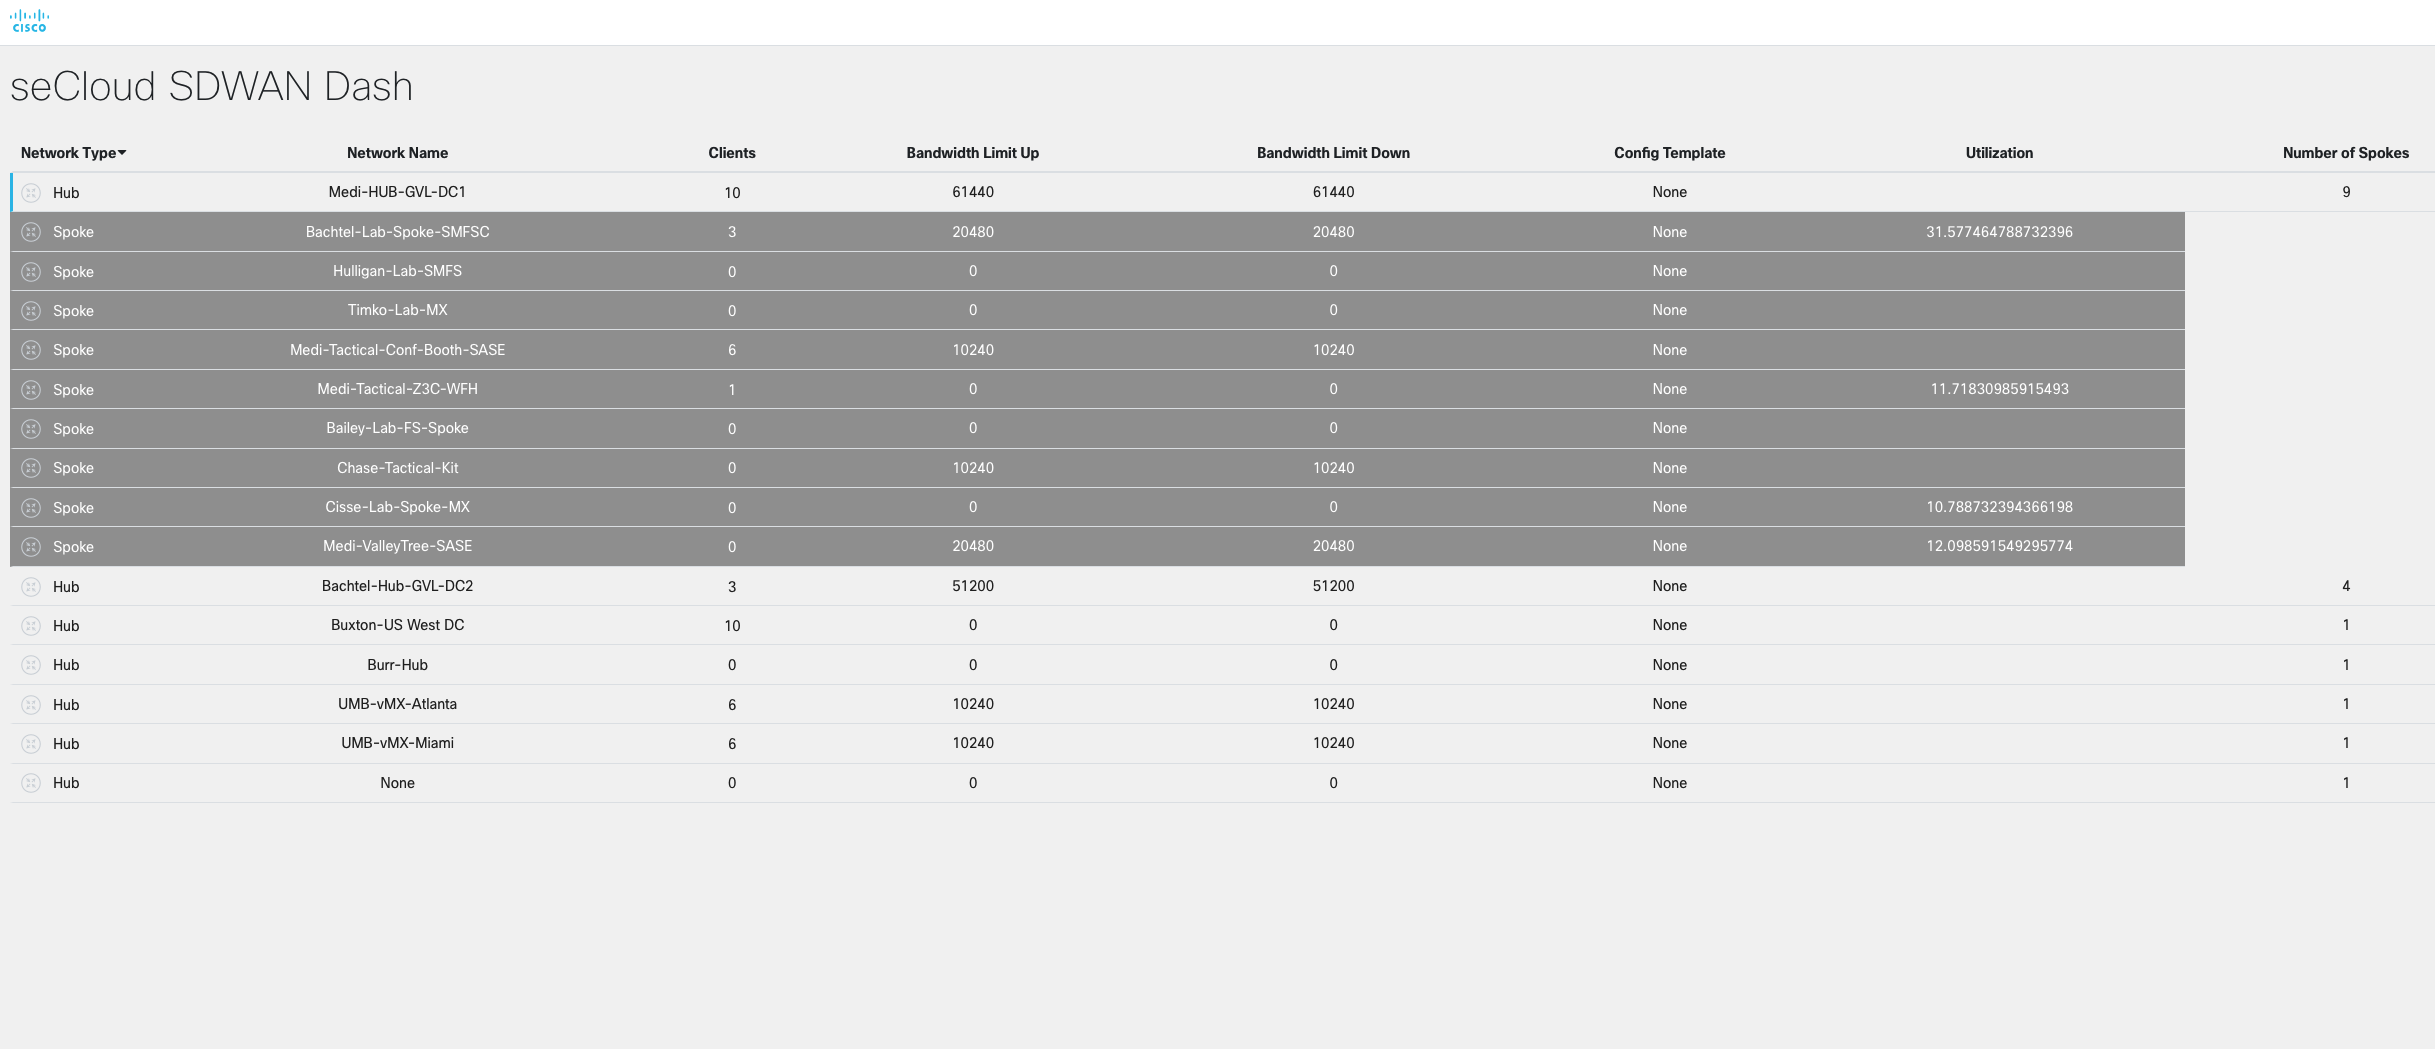
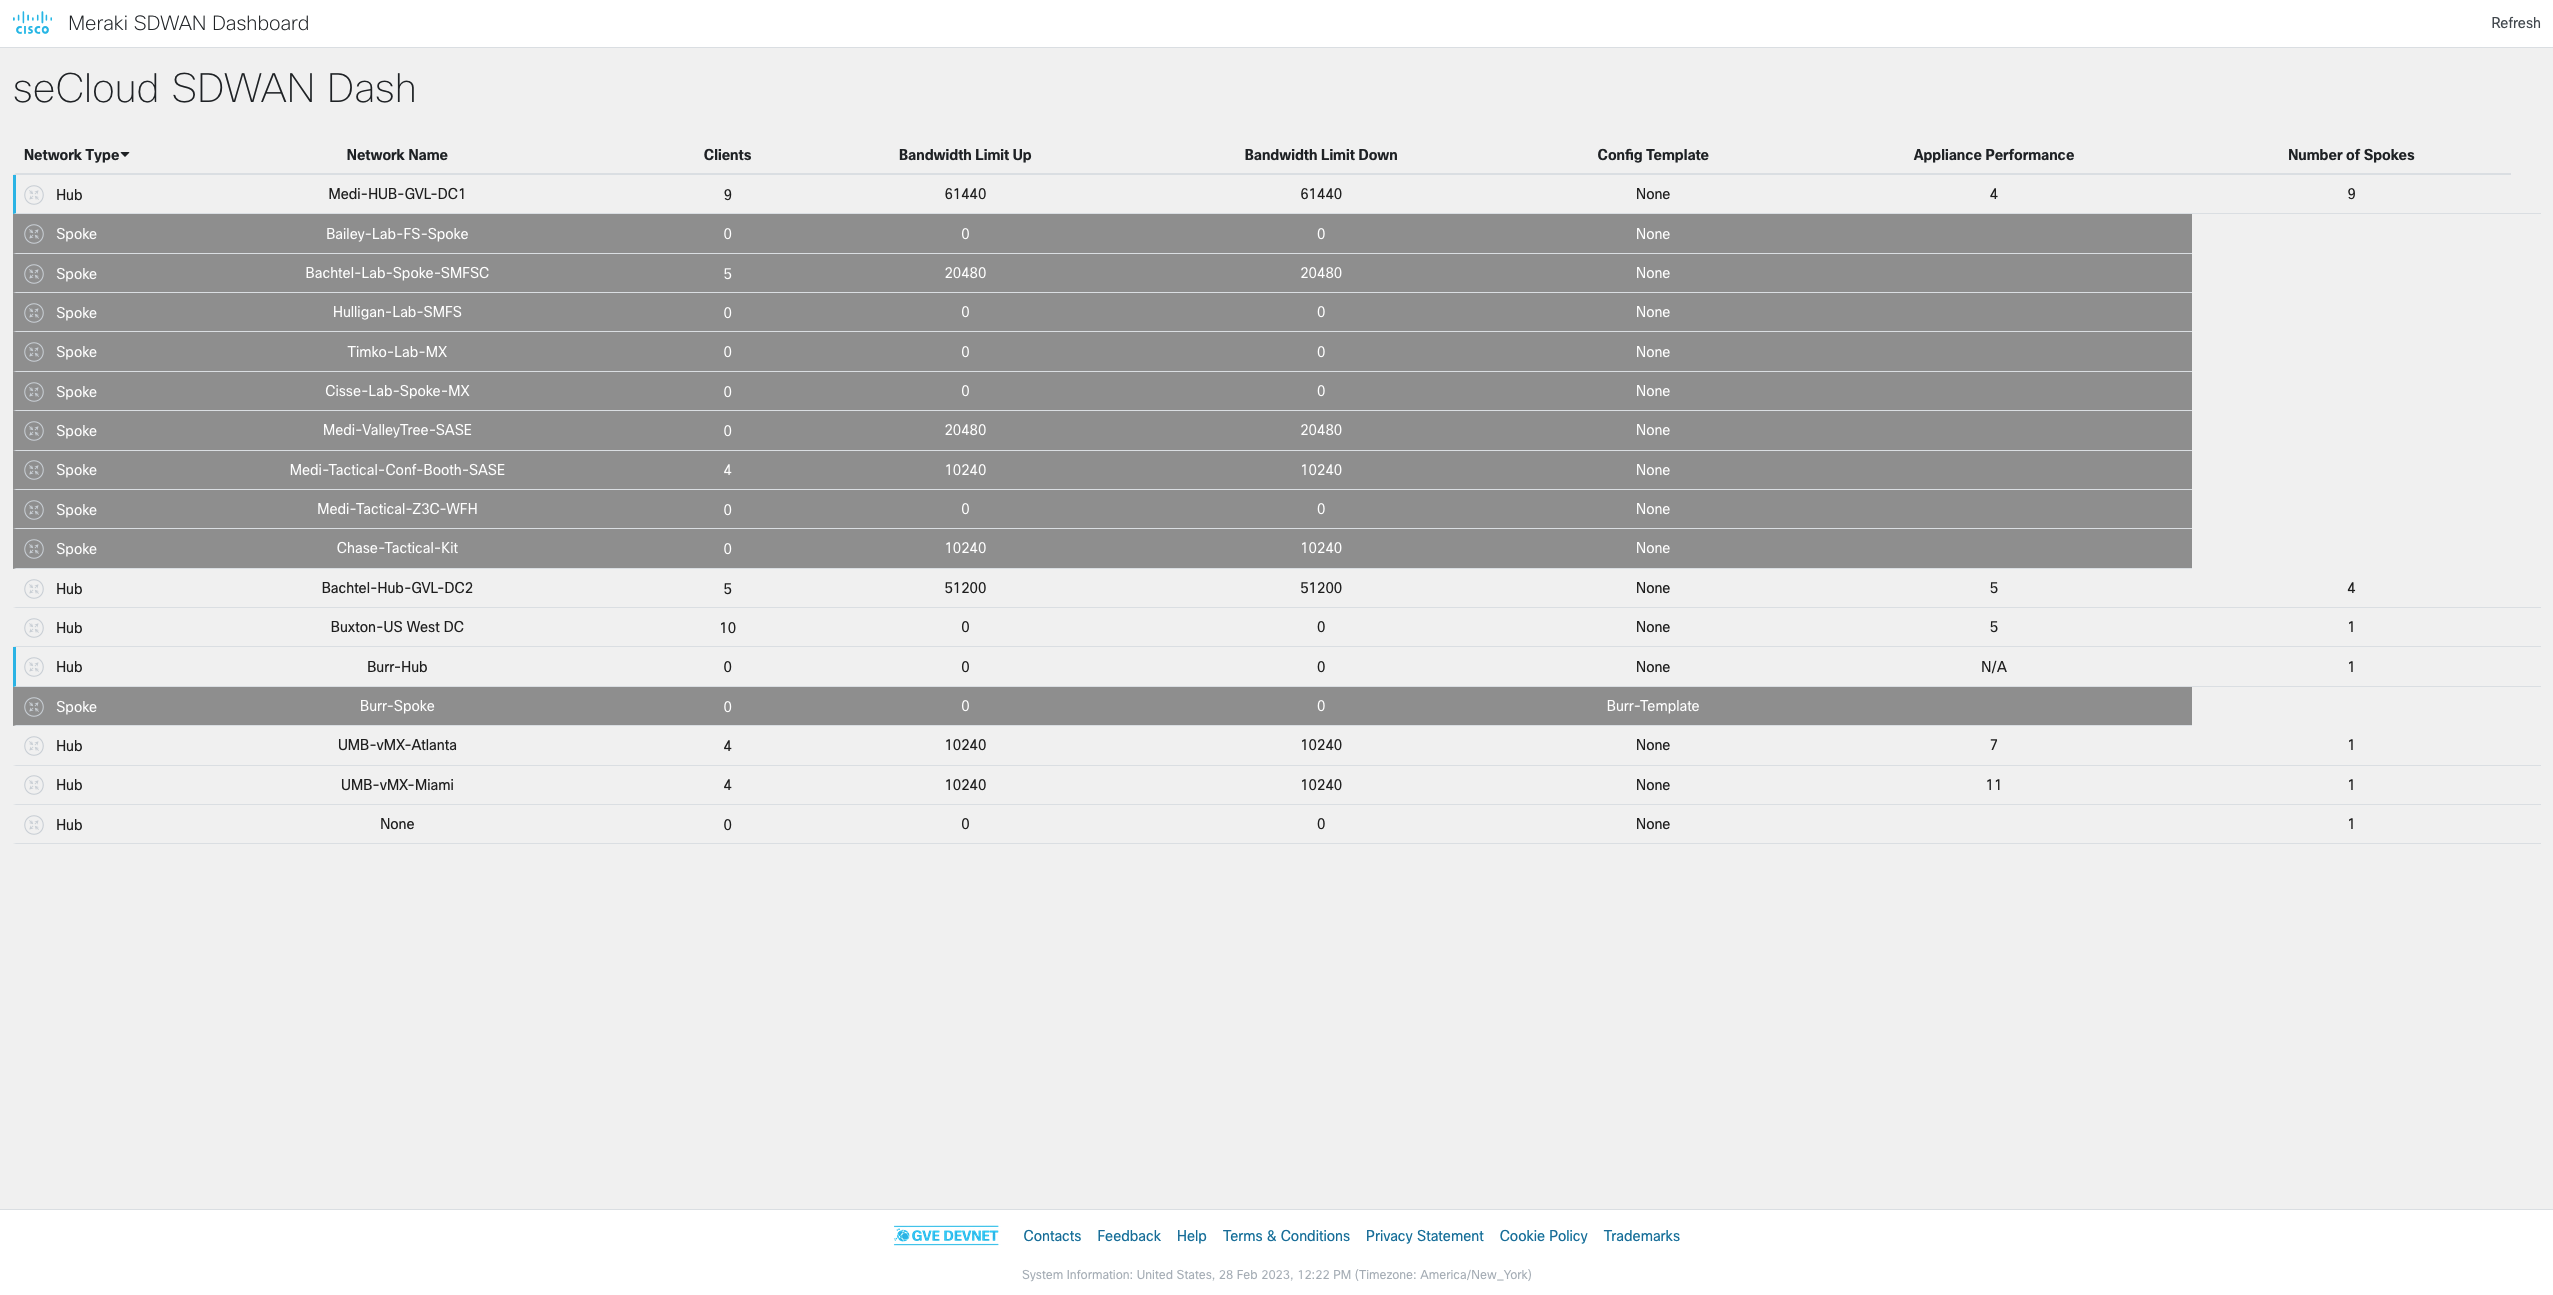
Baselined from internal Repository last_commit:914ec0c24f96b1159be9b4098636875c1e1b8860

diff --git a/templates/merakiAPI.html b/templates/merakiAPI.html
@@ -33,7 +33,7 @@ $(document).ready(function() {
                         <th class="text-center">Bandwidth Limit Up</th>
                         <th class="text-center">Bandwidth Limit Down</th>
                         <th class="text-center hidden-xs-down">Config Template</th>
-                        <th class="text-center">Utilization</th>
+                        <th class="text-center">Appliance Performance</th>
                         <th class="text-center">Number of Spokes</th>
                     </tr>
                 </thead>
@@ -49,7 +49,7 @@ $(document).ready(function() {
                         <td class="text-center">{{ hub.bandwidth_limit_up }}</td>
                         <td class="text-center">{{ hub.bandwidth_limit_down }}</td>
                         <td class="text-center">{{ hub.template }}</td>
-                        <td class="text-center">{{ hub.utilization }}</td>
+                        <td class="text-center">{{ hub.appliancePerformance }}</td>
                         <td class="text-center">{{ hub.num_spokes }}</td>
                         <td><i class="fa fa-chevron-down"></i></td>
                     </tr>

diff --git a/app.py b/app.py
@@ -21,6 +21,7 @@ import merakiAPI
 import traceback
 import asyncio
 from aiolimiter import AsyncLimiter
+from pprint import pprint
 
 # load all environment variables
 load_dotenv()
@@ -102,6 +103,18 @@ async def getTotalClients(net_id, spoke_info, hub_info, semaphore):
 
         semaphore.release()
 
+# get the appliance performance of the appliance in each hub
+async def getRouterPerformance(router, hub_info, semaphore):
+    await semaphore.acquire()
+    async with limiter:
+        router_perf = merakiAPI.getAppliancePerformance(router)
+        if router_perf is not None and "perfScore" in router_perf.keys():
+            hub_info["appliancePerformance"] = router_perf["perfScore"]
+        else:
+            hub_info["appliancePerformance"] = "N/A"
+
+        semaphore.release()
+
 
 ##Routes
 #Instructions
@@ -117,11 +130,11 @@ async def meraki():
         for net in networks:
             net_dict[net["id"]] = {key: net[key] for key in net if key != "id"}
 
-        top_utilization = merakiAPI.getTopAppliancesByUtilization(org_id)
-        for item in top_utilization:
-            network_id = item["network"]["id"]
-            utilization = item["utilization"]["average"]["percentage"]
-            net_dict[network_id]["utilization"] = utilization
+        #top_utilization = merakiAPI.getTopAppliancesByUtilization(org_id)
+        #for item in top_utilization:
+            #network_id = item["network"]["id"]
+            #utilization = item["utilization"]["average"]["percentage"]
+            #net_dict[network_id]["utilization"] = utilization
 
         hubs_to_spokes = {} # map the hub network ids to their spoke networks
         spokes_to_hubs = {} # map spoke network ids to their hub networks
@@ -133,7 +146,8 @@ async def meraki():
             net_id = network["id"]
             # the network VPN information can only be retrieved from networks with MX appliances
             if "appliance" in network["productTypes"]:
-                tasks.append(getHubsAndSpokes(net_id, hubs_to_spokes, spokes_to_hubs, semaphore))
+                new_task = asyncio.create_task(getHubsAndSpokes(net_id, hubs_to_spokes, spokes_to_hubs, semaphore))
+                tasks.append(new_task)
 
         await asyncio.wait(tasks)
         # some spoke networks have no associated hub (make it make sense idk), these spokes will be grouped under the key "None" in the hubs_to_spokes dict
@@ -153,24 +167,30 @@ async def meraki():
 
         tasks = []
 
+        hubs = [hub for hub in hubs_to_spokes.keys() if hub != "None"] # making a list of all the network ids of the hubs that aren't None
+        routers = merakiAPI.getNetworkRouters(org_id, hubs) #get routers of hub networks
+        hub_to_routers = {router["networkId"]: router["serial"] for router in routers}
+
         # iterate through the hubs in the hubs_to_spokes dict and then retrieve the network information
         for hub in hubs_to_spokes:
             hub_network_info = {} # this dictionary will hold the necessary network information for the hub - then it will be appended to the hubs_and_spokes_structure
             hub_network_info["id"] = hub
 
+
+
             # if hub is not None then we can get network information about it
             if hub != "None":
-                if "utilization" in net_dict[hub].keys():
-                    hub_network_info["utilization"] = net_dict[hub]["utilization"]
-                else:
-                    hub_network_info["utilization"] = ""
-
                 hub_network_info["name"] = net_dict[hub]["name"]
+
+                router = hub_to_routers[hub]
+                new_task = asyncio.create_task(getRouterPerformance(router, hub_network_info, semaphore))
+                tasks.append(new_task)
 
                 # if the hub network is bound to a configuration template, then we need to get the template name to add to the hub_network_info dict
                 if net_dict[hub]["isBoundToConfigTemplate"]:
                     template_id = net_dict[hub]["configTemplateId"]
-                    tasks.append(getConfigTemplateName(org_id, template_id, hub_network_info, semaphore))
+                    new_task = asyncio.create_task(getConfigTemplateName(org_id, template_id, hub_network_info, semaphore))
+                    tasks.append(new_task)
                 else:
                     hub_network_info["template"] = None
 
@@ -197,7 +217,7 @@ async def meraki():
                     spoke_network_info["utilization"] = net_dict[spoke]["utilization"]
                 else:
                     spoke_network_info["utilization"] = ""
-                    
+
                 spoke_network_info["id"] = spoke
 
                 spoke_network_info["name"] = net_dict[spoke]["name"]
@@ -205,21 +225,25 @@ async def meraki():
                 # if the spoke network is bound to a configuration template, then we need to get the template name to add to the spoke_network_info dict
                 if net_dict[spoke]["isBoundToConfigTemplate"]:
                     template_id = net_dict[spoke]["configTemplateId"]
-                    tasks.append(getConfigTemplateName(org_id, template_id, spoke_network_info, semaphore))
+                    new_task = asyncio.create_task(getConfigTemplateName(org_id, template_id, spoke_network_info, semaphore))
+                    tasks.append(new_task)
 
                     # if the network is bound to a template, then we have to make the bandwidth API call with the template id
                     # calculate the network bandwidth of the spoke then add it to the spoke_network_info dict (there is a up and down limit)
-                    tasks.append(getNetworkBandwidthLimits(template_id, spoke_network_info, hub_network_info, semaphore))
+                    new_task = asyncio.create_task(getNetworkBandwidthLimits(template_id, spoke_network_info, hub_network_info, semaphore))
+                    tasks.append(new_task)
                 else:
                     spoke_network_info["template"] = None
 
                     # the network bandwidth API call only works with networks not bound to a template
-                    tasks.append(getNetworkBandwidthLimits(spoke, spoke_network_info, hub_network_info, semaphore))
+                    new_task = asyncio.create_task(getNetworkBandwidthLimits(spoke, spoke_network_info, hub_network_info, semaphore))
+                    tasks.append(new_task)
 
                 # calculate the number of network clients associated with the spoke in the last 24 hours and then add it to the spoke_network_info dict
-                tasks.append(getTotalClients(spoke, spoke_network_info, hub_network_info, semaphore))
+                new_task = asyncio.create_task(getTotalClients(spoke, spoke_network_info, hub_network_info, semaphore))
+                tasks.append(new_task)
 
-                
+
 
                 # add this spoke to the list of spokes associated with the hub
                 hub_network_info["spokes"].append(spoke_network_info)
@@ -231,7 +255,7 @@ async def meraki():
             hubs_and_spokes_structure.append(hub_network_info)
 
         await asyncio.wait(tasks)
-        
+
         return render_template('merakiAPI.html', org_name=ORG_NAME, hubs_and_spokes=hubs_and_spokes_structure, hiddenLinks=False, timeAndLocation=getSystemTimeAndLocation())
     except Exception as e:
         print(e)

diff --git a/merakiAPI.py b/merakiAPI.py
@@ -61,6 +61,12 @@ def getNetwork(net_id):
 
     return response
 
+#Get network devices
+def getNetworkRouters(org_id, net_ids):
+    response = DASHBOARD.organizations.getOrganizationDevices(org_id, networkIds=net_ids, productTypes=["appliance"])
+
+    return response
+
 def getConfigTemplates(org_id):
     response = DASHBOARD.organizations.getOrganizationConfigTemplates(org_id)
 
@@ -105,6 +111,12 @@ def getNetworkBandwidth(net_id):
 
 def getTopAppliancesByUtilization(org_id):
     response = DASHBOARD.organizations.getOrganizationSummaryTopAppliancesByUtilization(org_id)
+
+    return response
+
+
+def getAppliancePerformance(router):
+    response = DASHBOARD.appliance.getDeviceAppliancePerformance(router)
 
     return response
 
